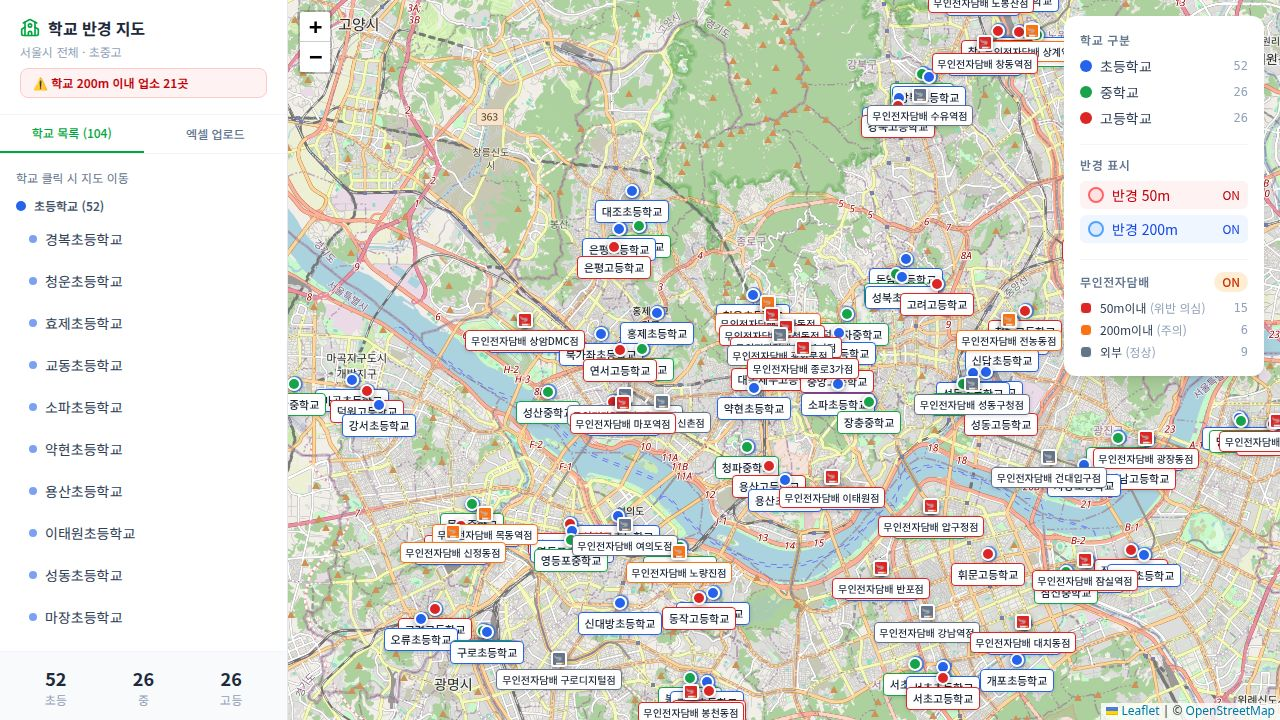
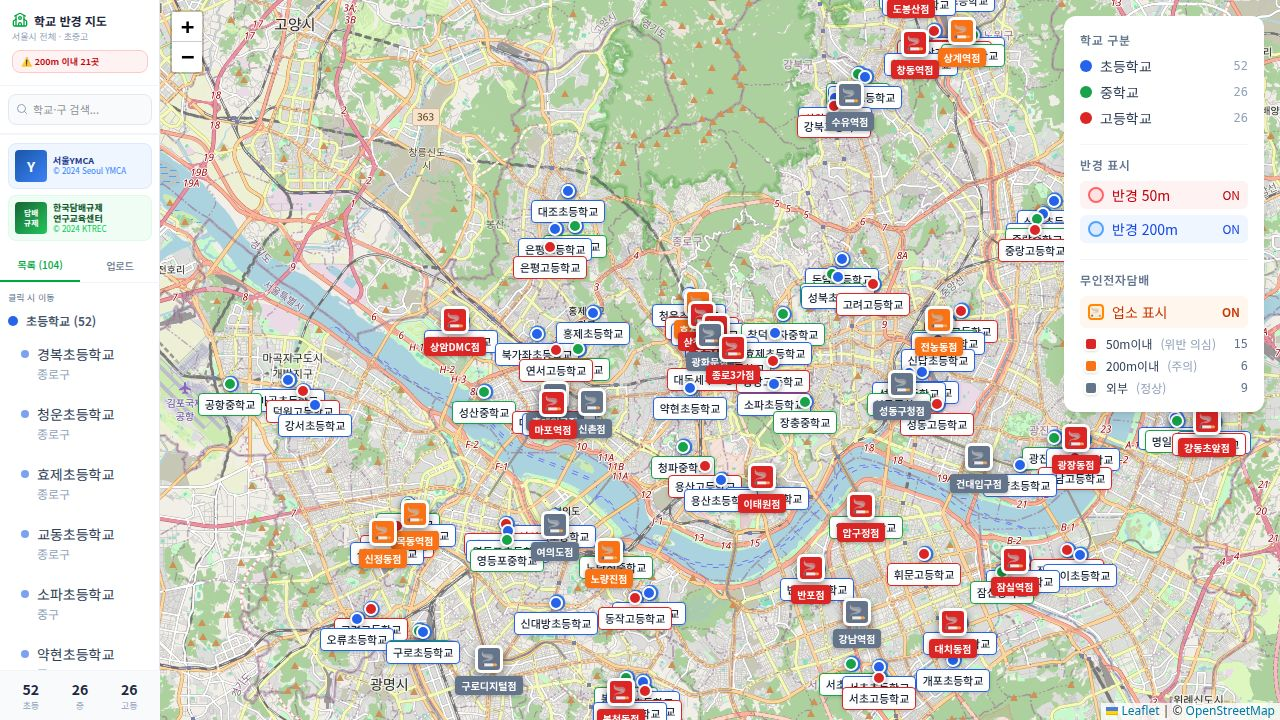
Improve map visibility and add district-specific information panels
Update map radius circle styling for better visibility, resize the sidebar to half its original width, and introduce a new panel to display district-specific school and tobacco shop statistics when a school is clicked.

Replit-Commit-Author: Agent
Replit-Commit-Session-Id: da1df3fd-b3f6-4c64-9bd5-ff60f89cd415
Replit-Commit-Checkpoint-Type: full_checkpoint
Replit-Commit-Event-Id: 5fc3029e-4320-4a2f-a9bf-d26b5875aeca
Replit-Commit-Screenshot-Url: https://storage.googleapis.com/screenshot-production-us-central1/67cf3ead-6ce6-4d70-9240-5c1be8a0e038/da1df3fd-b3f6-4c64-9bd5-ff60f89cd415/SlwePbH
Replit-Helium-Checkpoint-Created: true

diff --git a/artifacts/school-map/src/pages/MapPage.tsx b/artifacts/school-map/src/pages/MapPage.tsx
@@ -3,8 +3,135 @@ import LeafletMap from "@/components/LeafletMap";
 import ExcelUploader from "@/components/ExcelUploader";
 import SchoolList from "@/components/SchoolList";
 import Legend from "@/components/Legend";
-import { School, TobaccoShop, SAMPLE_SCHOOLS, SAMPLE_TOBACCO_SHOPS, getTobaccoZone } from "@/types/school";
-import { RefreshCw, School as SchoolIcon, MapPin, ChevronLeft, ChevronRight, Search, X } from "lucide-react";
+import {
+  School, TobaccoShop,
+  SAMPLE_SCHOOLS, SAMPLE_TOBACCO_SHOPS,
+  getTobaccoZone, haversineDistance,
+  SCHOOL_TYPE_COLORS, TOBACCO_ZONE_COLORS,
+} from "@/types/school";
+import { RefreshCw, School as SchoolIcon, ChevronLeft, ChevronRight, Search, X } from "lucide-react";
+
+const SIDEBAR_W = 160;
+
+function LogoSection() {
+  return (
+    <div className="px-2 py-2 border-t border-slate-100 space-y-1.5">
+      <div className="flex items-center gap-1.5 bg-blue-50 border border-blue-100 rounded-lg p-1.5">
+        <div
+          className="flex-shrink-0 w-8 h-8 rounded flex items-center justify-center text-white font-black text-sm"
+          style={{ background: "linear-gradient(135deg,#1a56a8,#3b82f6)" }}
+        >
+          Y
+        </div>
+        <div className="min-w-0">
+          <p className="text-[9px] font-bold text-blue-900 leading-tight">서울YMCA</p>
+          <p className="text-[8px] text-blue-500 leading-tight">© 2024 Seoul YMCA</p>
+        </div>
+      </div>
+      <div className="flex items-center gap-1.5 bg-green-50 border border-green-100 rounded-lg p-1.5">
+        <div
+          className="flex-shrink-0 w-8 h-8 rounded flex items-center justify-center text-white font-bold text-[8px] leading-tight text-center"
+          style={{ background: "linear-gradient(135deg,#166534,#22c55e)" }}
+        >
+          담배<br/>규제
+        </div>
+        <div className="min-w-0">
+          <p className="text-[9px] font-bold text-green-900 leading-tight">한국담배규제<br/>연구교육센터</p>
+          <p className="text-[8px] text-green-500 leading-tight">© 2024 KTREC</p>
+        </div>
+      </div>
+    </div>
+  );
+}
+
+interface DistrictPanelProps {
+  school: School;
+  allSchools: School[];
+  tobaccoShops: TobaccoShop[];
+  onClose: () => void;
+}
+
+function DistrictPanel({ school, allSchools, tobaccoShops, onClose }: DistrictPanelProps) {
+  const district = school.district ?? "기타";
+  const distSchools = allSchools.filter((s) => s.district === district);
+
+  const distTobacco = tobaccoShops.filter((shop) => {
+    let minDist = Infinity;
+    let nearestDistrict = "";
+    for (const s of allSchools) {
+      const d = haversineDistance(shop.lat, shop.lng, s.lat, s.lng);
+      if (d < minDist) { minDist = d; nearestDistrict = s.district ?? ""; }
+    }
+    return nearestDistrict === district;
+  });
+
+  const schoolCounts: Record<string, number> = {
+    초등학교: distSchools.filter((s) => s.type === "초등학교").length,
+    중학교:   distSchools.filter((s) => s.type === "중학교").length,
+    고등학교: distSchools.filter((s) => s.type === "고등학교").length,
+  };
+
+  const tobaccoCounts: Record<string, number> = { "50m이내": 0, "200m이내": 0, "외부": 0 };
+  distTobacco.forEach((shop) => {
+    tobaccoCounts[getTobaccoZone(shop, distSchools)]++;
+  });
+
+  return (
+    <div className="absolute bottom-6 right-4 z-[1000] w-52 bg-white rounded-xl shadow-2xl border border-slate-200 overflow-hidden">
+      <div className="px-4 py-2.5 flex items-start justify-between" style={{ background: "linear-gradient(135deg,#1e293b,#334155)" }}>
+        <div>
+          <p className="text-white font-bold text-sm leading-tight">{district}</p>
+          <p className="text-slate-300 text-[11px] leading-tight mt-0.5">{school.name}</p>
+        </div>
+        <button onClick={onClose} className="text-slate-400 hover:text-white text-xl leading-none ml-2">×</button>
+      </div>
+
+      <div className="p-3 space-y-3">
+        <div>
+          <p className="text-[10px] font-bold text-slate-500 uppercase tracking-wider mb-1.5">학교 현황</p>
+          <div className="grid grid-cols-3 gap-1">
+            {(["초등학교","중학교","고등학교"] as const).map((type) => (
+              <div key={type} className="text-center bg-slate-50 rounded-lg py-1.5">
+                <div
+                  className="text-base font-bold"
+                  style={{ color: SCHOOL_TYPE_COLORS[type] }}
+                >
+                  {schoolCounts[type]}
+                </div>
+                <div className="text-[9px] text-slate-500">{type.replace("학교","")}</div>
+              </div>
+            ))}
+          </div>
+        </div>
+
+        <div className="border-t border-slate-100 pt-2">
+          <p className="text-[10px] font-bold text-slate-500 uppercase tracking-wider mb-1.5">전자담배샵</p>
+          <div className="space-y-1">
+            {(["50m이내","200m이내","외부"] as const).map((zone) => (
+              <div key={zone} className="flex items-center gap-1.5">
+                <span
+                  className="inline-block w-2.5 h-2.5 rounded-sm flex-shrink-0"
+                  style={{ backgroundColor: TOBACCO_ZONE_COLORS[zone] }}
+                />
+                <span className="text-[10px] text-slate-600 flex-1">{zone}</span>
+                <span
+                  className="text-[10px] font-bold px-1.5 py-0.5 rounded-full text-white"
+                  style={{ backgroundColor: TOBACCO_ZONE_COLORS[zone] }}
+                >
+                  {tobaccoCounts[zone]}곳
+                </span>
+              </div>
+            ))}
+          </div>
+          <div className="mt-1.5 pt-1.5 border-t border-slate-100 flex justify-between items-center">
+            <span className="text-[10px] text-slate-500">합계</span>
+            <span className="text-[11px] font-bold text-slate-700">{distTobacco.length}곳</span>
+          </div>
+        </div>
+      </div>
+    </div>
+  );
+}
 
 export default function MapPage() {
   const [schools, setSchools] = useState<School[]>(SAMPLE_SCHOOLS);
@@ -55,86 +182,81 @@ export default function MapPage() {
     <div className="flex h-screen w-screen overflow-hidden bg-slate-100 font-korean">
       {/* Sidebar */}
       <aside
-        className={`relative flex flex-col bg-white border-r border-slate-200 shadow-sm transition-all duration-300 z-10 ${sidebarOpen ? "w-72" : "w-0"}`}
-        style={{ minWidth: sidebarOpen ? "288px" : "0px" }}
+        className="relative flex flex-col bg-white border-r border-slate-200 shadow-sm transition-all duration-300 z-10"
+        style={{ width: sidebarOpen ? `${SIDEBAR_W}px` : "0px", minWidth: sidebarOpen ? `${SIDEBAR_W}px` : "0px" }}
       >
         {sidebarOpen && (
-          <div className="flex flex-col h-full overflow-hidden">
+          <div className="flex flex-col h-full overflow-hidden" style={{ width: `${SIDEBAR_W}px` }}>
             {/* Header */}
-            <div className="px-5 py-4 border-b border-slate-100">
-              <div className="flex items-center gap-2 mb-1">
-                <SchoolIcon className="h-5 w-5 text-green-600" />
-                <h1 className="text-base font-bold text-slate-800">학교 반경 지도</h1>
+            <div className="px-3 py-3 border-b border-slate-100">
+              <div className="flex items-center gap-1.5 mb-0.5">
+                <SchoolIcon className="h-4 w-4 text-green-600 flex-shrink-0" />
+                <h1 className="text-xs font-bold text-slate-800 leading-tight">학교 반경 지도</h1>
               </div>
-              <p className="text-xs text-slate-400">서울시 전체 · 초중고</p>
+              <p className="text-[9px] text-slate-400">서울시 전체 · 초중고</p>
               {violationCount > 0 && (
-                <div className="mt-2 bg-red-50 border border-red-200 rounded-lg px-3 py-1.5">
-                  <p className="text-xs text-red-700 font-semibold">⚠️ 학교 200m 이내 업소 {violationCount}곳</p>
+                <div className="mt-1.5 bg-red-50 border border-red-200 rounded-lg px-2 py-1">
+                  <p className="text-[9px] text-red-700 font-semibold">⚠️ 200m 이내 {violationCount}곳</p>
                 </div>
               )}
             </div>
 
             {/* Search Bar */}
-            <div className="px-4 py-3 border-b border-slate-100">
+            <div className="px-2 py-2 border-b border-slate-100">
               <div className="relative">
-                <Search className="absolute left-3 top-1/2 -translate-y-1/2 h-3.5 w-3.5 text-slate-400" />
+                <Search className="absolute left-2 top-1/2 -translate-y-1/2 h-3 w-3 text-slate-400" />
                 <input
                   type="text"
                   value={searchQuery}
-                  onChange={(e) => {
-                    setSearchQuery(e.target.value);
-                    setActiveTab("list");
-                  }}
-                  placeholder="학교명, 구, 유형 검색..."
-                  className="w-full pl-8 pr-8 py-2 text-sm bg-slate-50 border border-slate-200 rounded-lg focus:outline-none focus:ring-2 focus:ring-green-400 focus:border-transparent transition"
+                  onChange={(e) => { setSearchQuery(e.target.value); setActiveTab("list"); }}
+                  placeholder="학교·구 검색..."
+                  className="w-full pl-6 pr-6 py-1.5 text-[11px] bg-slate-50 border border-slate-200 rounded-lg focus:outline-none focus:ring-2 focus:ring-green-400 focus:border-transparent transition"
                 />
                 {searchQuery && (
-                  <button
-                    onClick={() => setSearchQuery("")}
-                    className="absolute right-2.5 top-1/2 -translate-y-1/2 text-slate-400 hover:text-slate-600"
-                  >
-                    <X className="h-3.5 w-3.5" />
+                  <button onClick={() => setSearchQuery("")} className="absolute right-2 top-1/2 -translate-y-1/2 text-slate-400 hover:text-slate-600">
+                    <X className="h-3 w-3" />
                   </button>
                 )}
               </div>
               {searchQuery && (
-                <p className="text-xs text-slate-400 mt-1.5 pl-1">
-                  검색 결과 <span className="font-semibold text-green-600">{filteredSchools.length}개</span>
-                  {filteredSchools.length !== schools.length && ` / 전체 ${schools.length}개`}
+                <p className="text-[9px] text-slate-400 mt-1 pl-0.5">
+                  <span className="font-semibold text-green-600">{filteredSchools.length}개</span> 결과
                 </p>
               )}
             </div>
+
+            {/* Logo Section */}
+            <LogoSection />
 
             {/* Tabs */}
             <div className="flex border-b border-slate-100">
               <button
                 onClick={() => setActiveTab("list")}
-                className={`flex-1 py-2.5 text-xs font-medium transition-colors ${
+                className={`flex-1 py-2 text-[10px] font-medium transition-colors ${
                   activeTab === "list" ? "text-green-600 border-b-2 border-green-600" : "text-slate-500 hover:text-slate-700"
                 }`}
               >
-                학교 목록 ({filteredSchools.length})
+                목록 ({filteredSchools.length})
               </button>
               <button
                 onClick={() => setActiveTab("upload")}
-                className={`flex-1 py-2.5 text-xs font-medium transition-colors ${
+                className={`flex-1 py-2 text-[10px] font-medium transition-colors ${
                   activeTab === "upload" ? "text-green-600 border-b-2 border-green-600" : "text-slate-500 hover:text-slate-700"
                 }`}
               >
-                엑셀 업로드
+                업로드
               </button>
             </div>
 
             {/* Tab Content */}
-            <div className="flex-1 overflow-y-auto p-4">
+            <div className="flex-1 overflow-y-auto p-2">
               {activeTab === "list" ? (
-                <div className="space-y-3">
+                <div className="space-y-2">
                   <div className="flex items-center justify-between">
-                    <p className="text-xs text-slate-500">학교 클릭 시 지도 이동</p>
+                    <p className="text-[9px] text-slate-500">클릭 시 이동</p>
                     {schools !== SAMPLE_SCHOOLS && (
-                      <button onClick={handleReset} className="text-xs text-slate-400 hover:text-slate-600 flex items-center gap-1">
-                        <RefreshCw className="h-3 w-3" />
-                        초기화
+                      <button onClick={handleReset} className="text-[9px] text-slate-400 hover:text-slate-600 flex items-center gap-0.5">
+                        <RefreshCw className="h-2.5 w-2.5" />초기화
                       </button>
                     )}
                   </div>
@@ -151,14 +273,14 @@ export default function MapPage() {
             </div>
 
             {/* Stats Footer */}
-            <div className="border-t border-slate-100 px-4 py-3 bg-slate-50">
-              <div className="grid grid-cols-3 gap-2 text-center">
-                {(["초등학교", "중학교", "고등학교"] as const).map((type) => {
+            <div className="border-t border-slate-100 px-2 py-2 bg-slate-50">
+              <div className="grid grid-cols-3 gap-1 text-center">
+                {(["초등학교","중학교","고등학교"] as const).map((type) => {
                   const count = filteredSchools.filter((s) => s.type === type).length;
                   return (
                     <div key={type}>
-                      <div className="text-lg font-bold text-slate-800">{count}</div>
-                      <div className="text-xs text-slate-400">{type.replace("학교", "")}</div>
+                      <div className="text-sm font-bold text-slate-800">{count}</div>
+                      <div className="text-[9px] text-slate-400">{type.replace("학교","")}</div>
                     </div>
                   );
                 })}
@@ -172,16 +294,16 @@ export default function MapPage() {
       <button
         onClick={() => setSidebarOpen((v) => !v)}
         className="absolute top-1/2 -translate-y-1/2 z-20 bg-white border border-slate-200 rounded-r-lg shadow px-1 py-3 text-slate-400 hover:text-slate-600 transition-all"
-        style={{ left: sidebarOpen ? "288px" : "0px" }}
+        style={{ left: sidebarOpen ? `${SIDEBAR_W}px` : "0px" }}
       >
         {sidebarOpen ? <ChevronLeft className="h-4 w-4" /> : <ChevronRight className="h-4 w-4" />}
       </button>
 
       {/* Map Area */}
       <main className="flex-1 relative">
-        {/* Floating Search Bar (map overlay) */}
+        {/* Floating Search Bar */}
         {!sidebarOpen && (
-          <div className="absolute top-4 left-4 z-[1000] w-72">
+          <div className="absolute top-4 left-4 z-[1000] w-64">
             <div className="relative">
               <Search className="absolute left-3 top-1/2 -translate-y-1/2 h-4 w-4 text-slate-400" />
               <input
@@ -229,20 +351,14 @@ export default function MapPage() {
           />
         </div>
 
-        {/* Selected school info */}
+        {/* District Info Panel (bottom-right, square) */}
         {selectedSchool && (
-          <div className="absolute bottom-6 left-1/2 -translate-x-1/2 z-[1000]">
-            <div className="bg-white rounded-xl shadow-lg px-5 py-3 flex items-center gap-3 min-w-[240px]">
-              <MapPin className="h-5 w-5 text-green-500 flex-shrink-0" />
-              <div>
-                <p className="font-semibold text-slate-800 text-sm">{selectedSchool.name}</p>
-                <p className="text-xs text-slate-400">
-                  {selectedSchool.district && `${selectedSchool.district} · `}{selectedSchool.type}
-                </p>
-              </div>
-              <button onClick={() => setSelectedSchool(null)} className="ml-auto text-slate-300 hover:text-slate-500 text-lg leading-none">×</button>
-            </div>
-          </div>
+          <DistrictPanel
+            school={selectedSchool}
+            allSchools={schools}
+            tobaccoShops={tobaccoShops}
+            onClose={() => setSelectedSchool(null)}
+          />
         )}
       </main>
     </div>

diff --git a/artifacts/school-map/src/components/LeafletMap.tsx b/artifacts/school-map/src/components/LeafletMap.tsx
@@ -118,10 +118,10 @@ export default function LeafletMap({
         const circle = L.circle([school.lat, school.lng], {
           radius: cfg.radius,
           color: cfg.color,
-          weight: 2,
-          opacity: 0.8,
+          weight: cfg.radius === 50 ? 3 : 2.5,
+          opacity: 1,
           fillColor: cfg.fillColor,
-          fillOpacity: 0.25,
+          fillOpacity: cfg.radius === 50 ? 0.55 : 0.45,
         }).addTo(map);
 
         schoolLayerRef.current.push(circle);